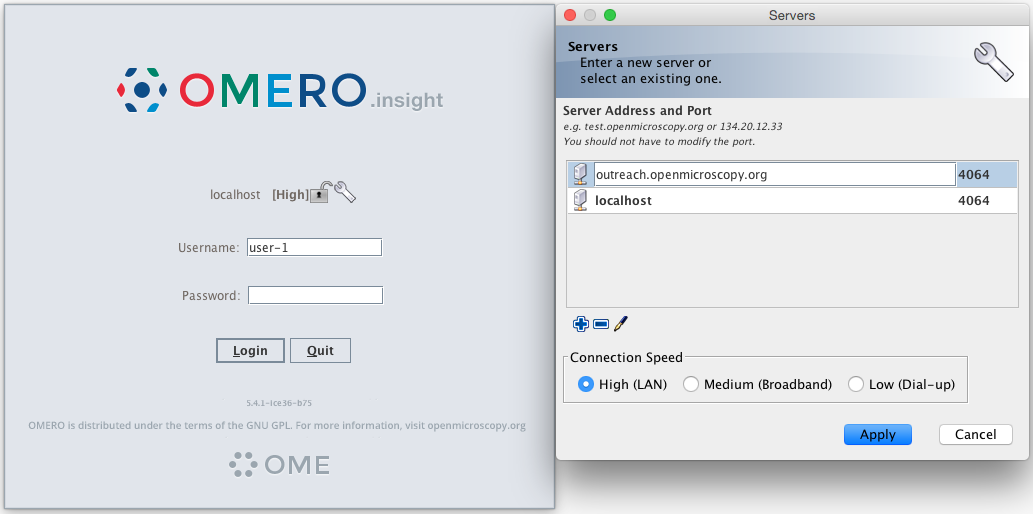
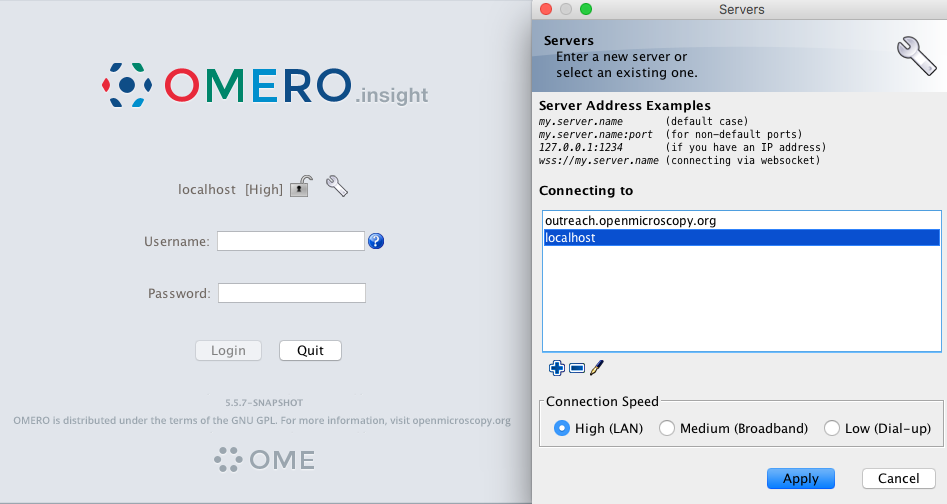
Change screenshot, explain about server address inputs

diff --git a/docs/import-desktop-client.rst b/docs/import-desktop-client.rst
@@ -87,7 +87,8 @@ Step-by-step:
 #. This will open a list of servers to which you can connect. By default, only "localhost" is listed. Click on the plus icon to add a new line to the list and type into the line the server address.
 
    .. image:: images/importinsight9.png
-
+   .. note::
+      If your server is running on a default port (``4064``), as it is usually the case, then you can simply just type in the server name such as ``my.server.name``. For servers running on a non-default port, e.g. ``54064``, type the address of the server as ``my.server.name:54064`` into the above dialog. Alternatively, you can also type in the IP address of your server, or connect using websocket.
 #.  When done, click *Apply*.
 
 #.  Log in using the username and password provided.
